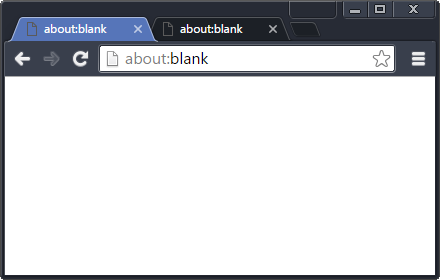
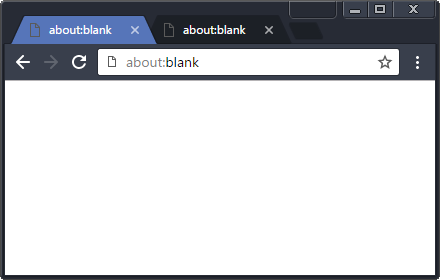
Updated for Chrome's material redesign.

Changed region(s): [[0.0, 0.0571, 1.0, 0.3143], [0.6795, 0.0571, 0.7091, 0.0857]]

diff --git a/README.md b/README.md
@@ -1,5 +1,5 @@
 # Developer Edition Dark
-A Chrome theme inspired by Firefox's Developer Edition Dark theme. Available on the [Chrome Web Store](https://chrome.google.com/webstore/detail/developer-edition-dark/lglfmldlfmbbehalkgiglehhjblbfcjo)
+A Chrome theme inspired by Firefox's Developer Edition Dark theme. Available on the [Chrome Web Store](https://chrome.google.com/webstore/detail/developer-edition-dark/lglfmldlfmbbehalkgiglehhjblbfcjo). Updated to fit Chrome's material redesign.
 
 ## Screenshot
-![Chrome Developer Edition Dark Screenshot](https://imgur.com/HGlAPiV.png)
+![Chrome Developer Edition Dark Screenshot](https://imgur.com/6R8ZJL5.png)
